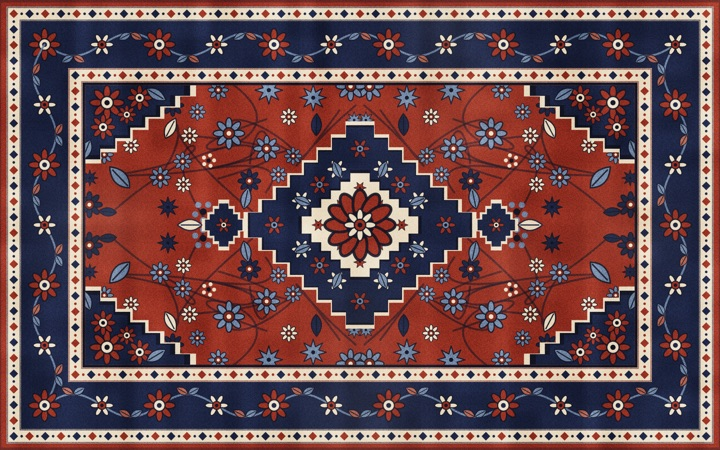
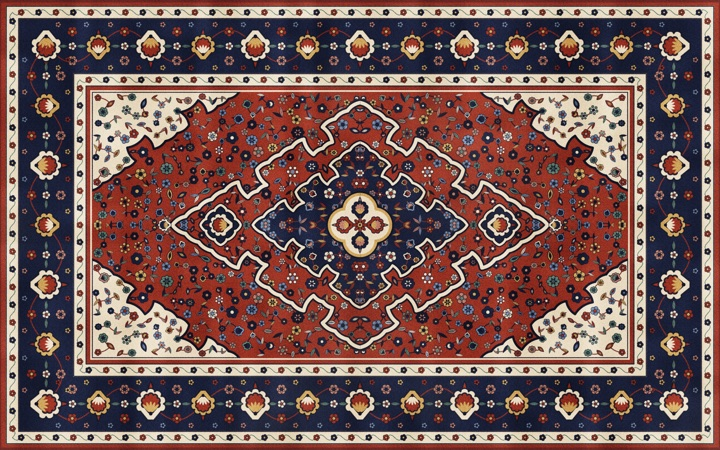
Show the new Persian and the Heriz; Shag last
The Persian preview is re-rendered from 0.2.7, Heriz joins the gallery
after it, and Shag moves to the end.

diff --git a/index.html b/index.html
@@ -173,7 +173,7 @@
       <div class="features">
         <div class="feature"><div class="glyph">✋</div><h3>Fold and curl</h3><p>Grab any part and drag to lift, fold or curl it. Drag a fold back to undo it, or double-click to smooth it all out.</p></div>
         <div class="feature"><div class="glyph">⛰</div><h3>Drapes over your icons</h3><p>Each desktop icon makes a bump under the rug. Piles of icons make bigger bumps.</p></div>
-        <div class="feature"><div class="glyph">🧶</div><h3>Design your own</h3><p>Persian, Kilim, Berber, Shag, Stripes or Bordered, with your choice of colours, fringe, wear and pile length.</p></div>
+        <div class="feature"><div class="glyph">🧶</div><h3>Design your own</h3><p>Persian, Heriz, Kilim, Berber, Stripes, Bordered or Shag, with your choice of colours, fringe, wear and pile length.</p></div>
         <div class="feature"><div class="glyph">🧺</div><h3>Stack several rugs</h3><p>Rugs rest on one another. Save sets of them as arrangements and switch between them from the menu bar.</p></div>
         <div class="feature"><div class="glyph">🔈</div><h3>Fabric sounds</h3><p>A soft, muffled wool swish while it moves, and a gentle thump when a fold lands. One click to turn off.</p></div>
         <div class="feature"><div class="glyph">🍃</div><h3>Light on your Mac</h3><p>A rug at rest uses next to no CPU. No fans, no battery drain, even though it lives on your desktop all day.</p></div>
@@ -202,11 +202,12 @@
       <p class="muted">Every pattern is drawn by the app, in any palette you like.</p>
       <div class="gallery">
         <figure><img src="assets/persian.jpg" alt="Persian rug pattern" loading="lazy"><figcaption>Persian</figcaption></figure>
+        <figure><img src="assets/heriz.jpg" alt="Heriz rug pattern" loading="lazy"><figcaption>Heriz</figcaption></figure>
         <figure><img src="assets/kilim.jpg" alt="Kilim rug pattern" loading="lazy"><figcaption>Kilim</figcaption></figure>
         <figure><img src="assets/beniOurain.jpg" alt="Berber rug pattern" loading="lazy"><figcaption>Berber</figcaption></figure>
-        <figure><img src="assets/shag.jpg" alt="Shag rug" loading="lazy"><figcaption>Shag</figcaption></figure>
         <figure><img src="assets/stripes.jpg" alt="Striped rug pattern" loading="lazy"><figcaption>Stripes</figcaption></figure>
         <figure><img src="assets/bordered.jpg" alt="Bordered rug pattern" loading="lazy"><figcaption>Bordered</figcaption></figure>
+        <figure><img src="assets/shag.jpg" alt="Shag rug" loading="lazy"><figcaption>Shag</figcaption></figure>
       </div>
     </div>
   </section>
